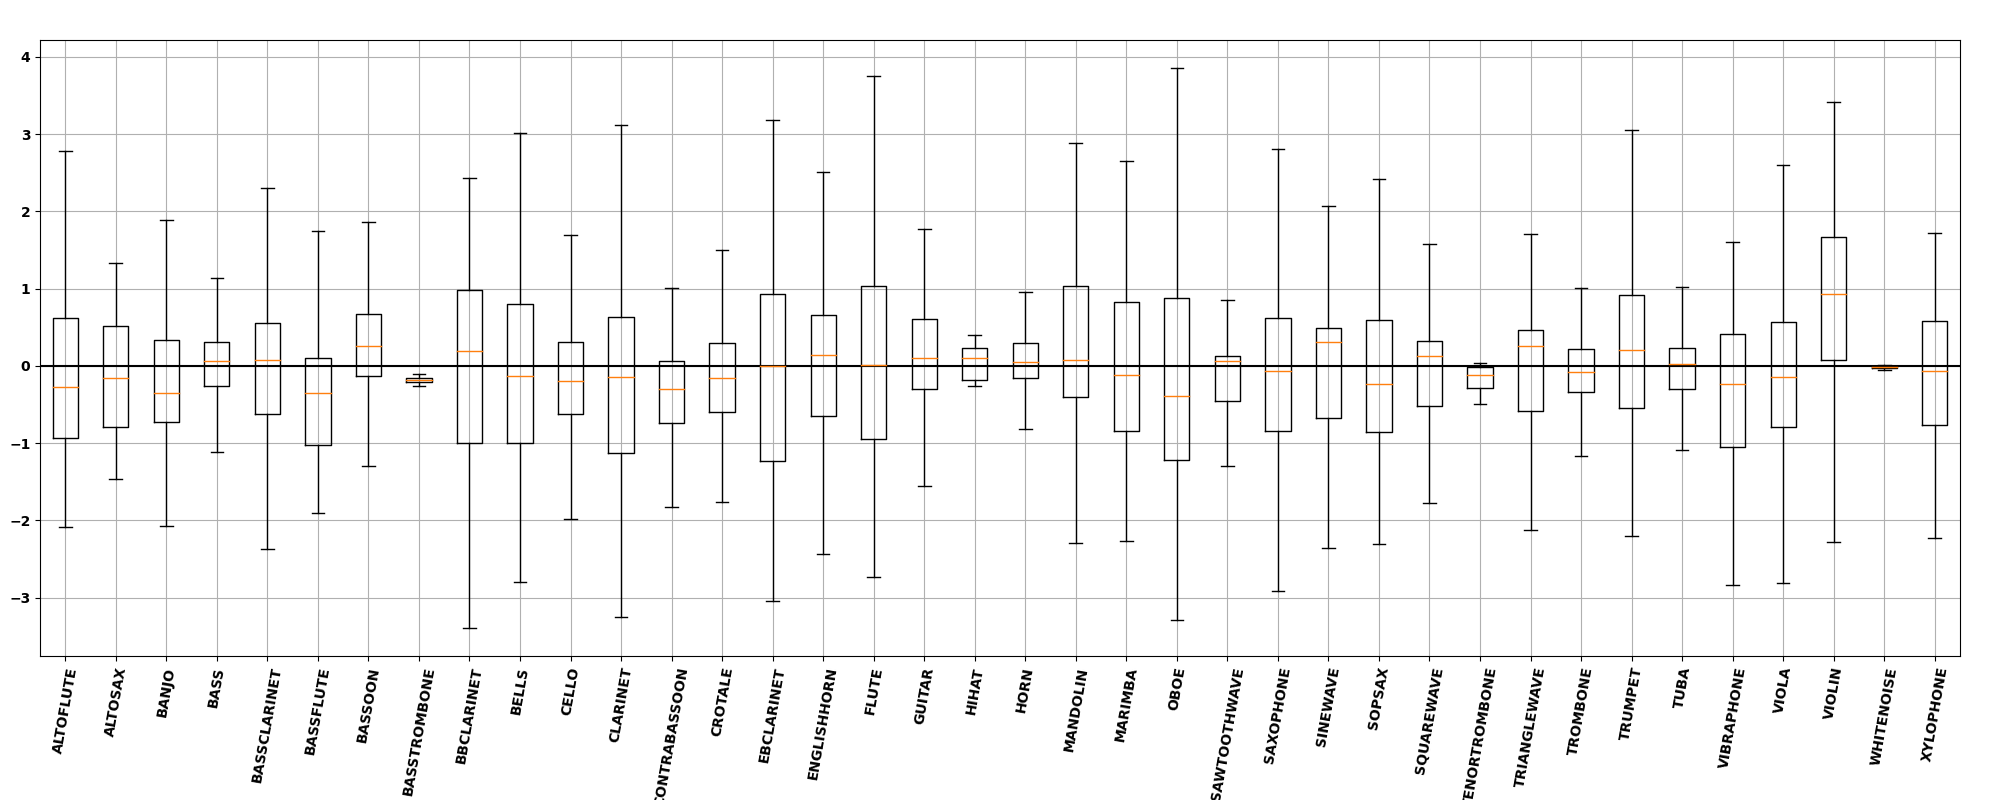
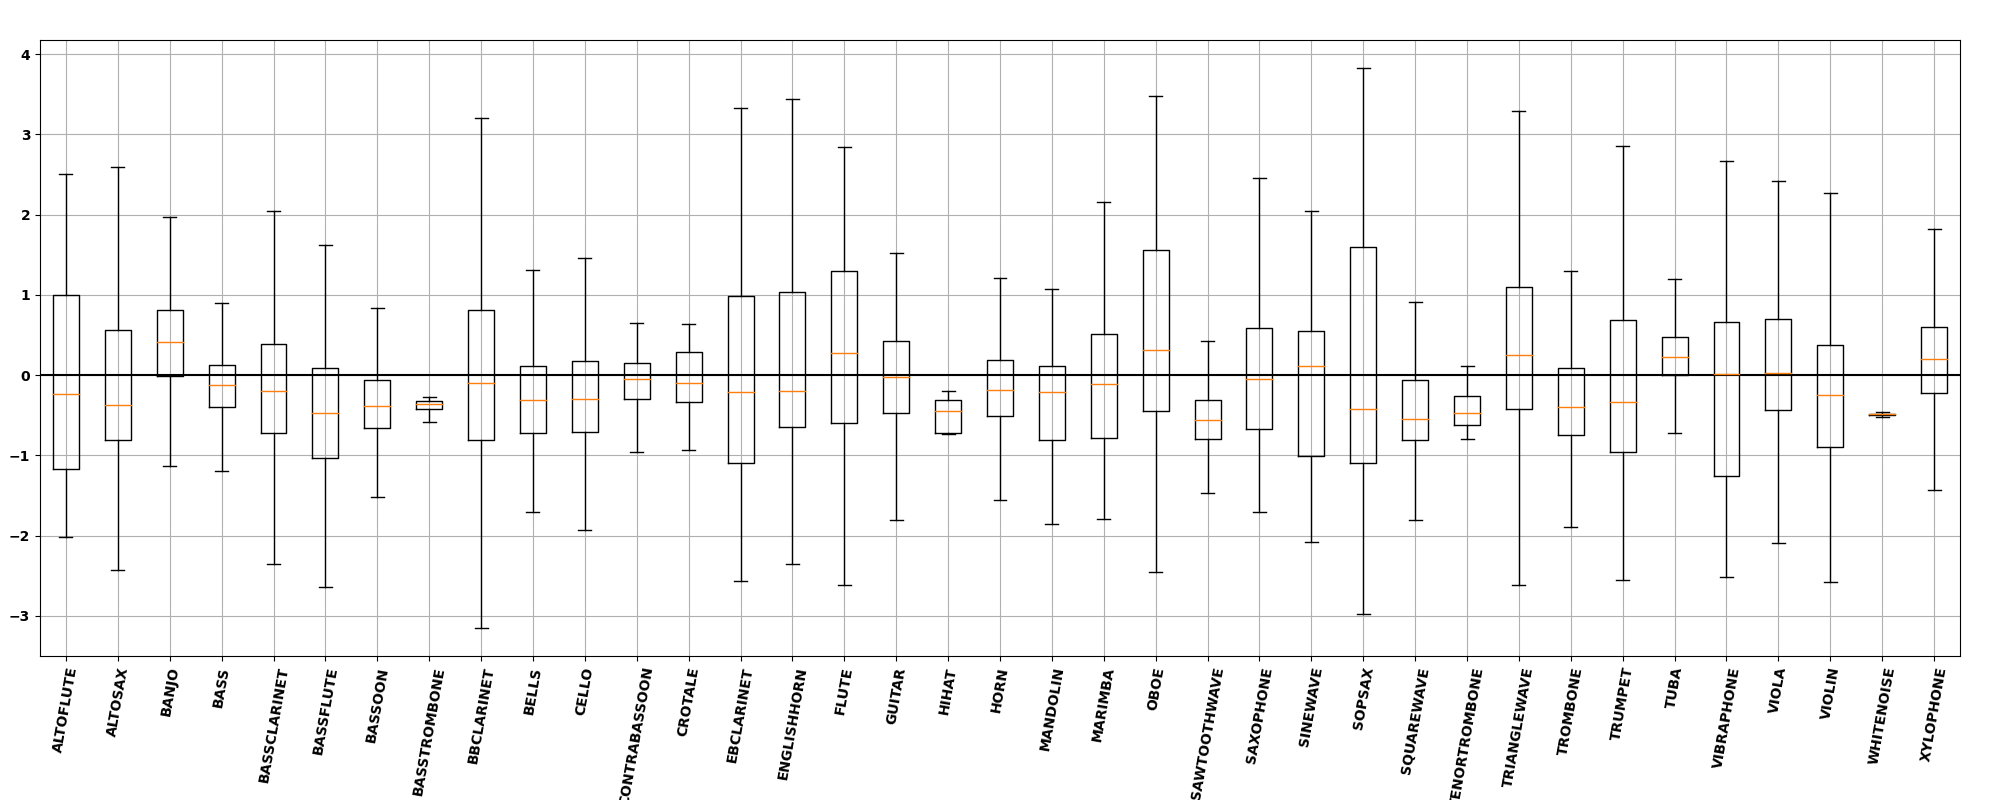
Updates Figures, Reorganized

diff --git a/SignalClassifier-Postprocessing/FeatureProperties/FeaturePropertiesMain.py b/SignalClassifier-Postprocessing/FeatureProperties/FeaturePropertiesMain.py
@@ -19,9 +19,9 @@ if __name__ == '__main__':
 
     # Initialize Directories
     parentPath = "C:\\Users\\Landon\\Documents\\GitHub\\Buell-Senior-Thesis"
-    mtrxPath = os.path.join(parentPath,"FeatureData\\Features2\\Matrix2.csv")
+    mtrxPath = os.path.join(parentPath,"FeatureData\\Matrix1.csv")
     exptPath = os.path.join(parentPath,"Thesis\\FiguresFeatures")
-    encdPath = os.path.join(parentPath,"SignalClassifier-CrossValidation\\XValCLFAlpha-Output-Data")
+    encdPath = os.path.join(parentPath,"SignalClassifier-CrossValidation\\XValGammaCLF-Output-Data")
 
     # Get Raw Datas
     inputFrame = pd.read_csv(mtrxPath,header=0).to_numpy()
@@ -29,7 +29,7 @@ if __name__ == '__main__':
     y = inputFrame[1:,1].astype(np.int16)
 
     # Organize Data
-    n_classes,n_features = 38,20
+    n_classes,n_features = 37,20
     Processor = utils.FeatureProcessor(X,y,n_classes,n_features)
     Processor.CreateDictionary(encdPath)
     Processor.__Call__(exptPath)

diff --git a/SignalClassifier-Postprocessing/FeatureProperties/PropertyUtilities.py b/SignalClassifier-Postprocessing/FeatureProperties/PropertyUtilities.py
@@ -31,10 +31,10 @@ class FeatureProcessor:
     @property
     def GetFeatureNames(self):
         """ Get Names of all features as list of strs """
-        names = ["Time Domain Env","Zero X-Rate","Time Center of Mass"]                         
-        names += ["Auto Correlation "+str(i+1) for i in range(4)]        
+        names = ["TDE","ZXR","TCM"]                         
+        names += ["ACC "+str(i+1) for i in range(4)]        
         names += ["MFCC "+str(i+1) for i in range (12)]      
-        names += ["Frequency Center of Mass"]                                    
+        names += ["FCM"]                                    
         return names
 
     def CreateDictionary(self,encdPath):
